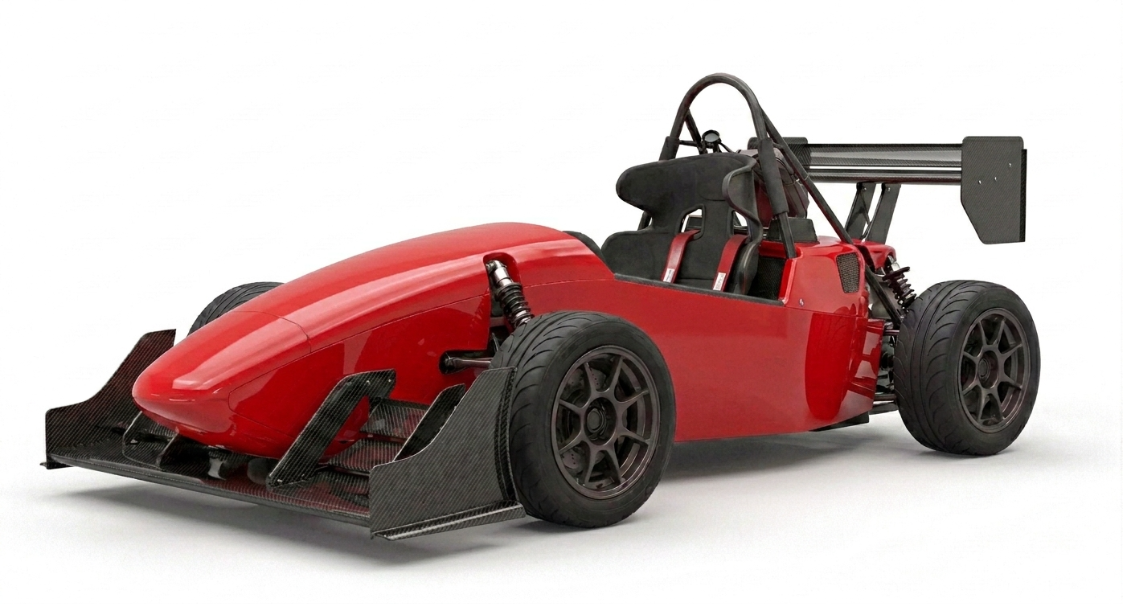
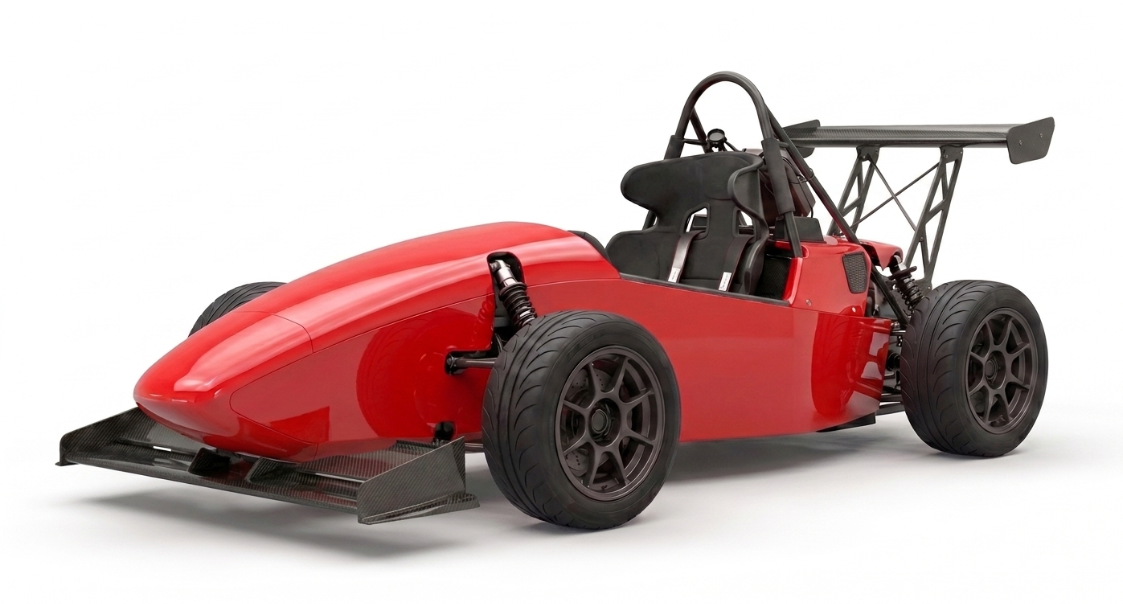
Fix substring overlap bug in aero image matching & update image

Changed region(s): [[0.0312, 0.1192, 0.935, 0.9536], [0.5298, 0.2682, 0.561, 0.3278]]

diff --git a/src/components/CarViewer.jsx b/src/components/CarViewer.jsx
@@ -30,21 +30,18 @@ export const findBestImage = (state) => {
     
     // 3. Ön Kanat kontrolü
     if (hasFront) {
-      // lowfront, low-front, front-low varyasyonları
-      const kw1 = `${state.frontWing}front`;
-      const kw2 = `${state.frontWing}-front`;
-      const kw3 = `front-${state.frontWing}`;
-      if (!lower.includes(kw1) && !lower.includes(kw2) && !lower.includes(kw3)) return false;
+      const kw = state.frontWing; // 'low' veya 'high'
+      const regex = new RegExp(`(?:^|[-_])(${kw}front|${kw}-front|front-${kw})(?:[-_.]|$)`);
+      if (!regex.test(lower)) return false;
     } else {
       if (lower.includes('front')) return false;
     }
     
     // 4. Arka Kanat kontrolü
     if (hasRear) {
-      const kw1 = `${state.rearWing}rear`;
-      const kw2 = `${state.rearWing}-rear`;
-      const kw3 = `rear-${state.rearWing}`;
-      if (!lower.includes(kw1) && !lower.includes(kw2) && !lower.includes(kw3)) return false;
+      const kw = state.rearWing; // 'low' veya 'high'
+      const regex = new RegExp(`(?:^|[-_])(${kw}rear|${kw}-rear|rear-${kw})(?:[-_.]|$)`);
+      if (!regex.test(lower)) return false;
     } else {
       if (lower.includes('rear')) return false;
     }
@@ -57,7 +54,7 @@ export const findBestImage = (state) => {
     return true;
   });
 
-  return match ? `/assets/cars/${match}` : null;
+  return match ? `/assets/cars/${match}?v=2` : null;
 };
 
 export default function CarViewer({ state, activeSection }) {
